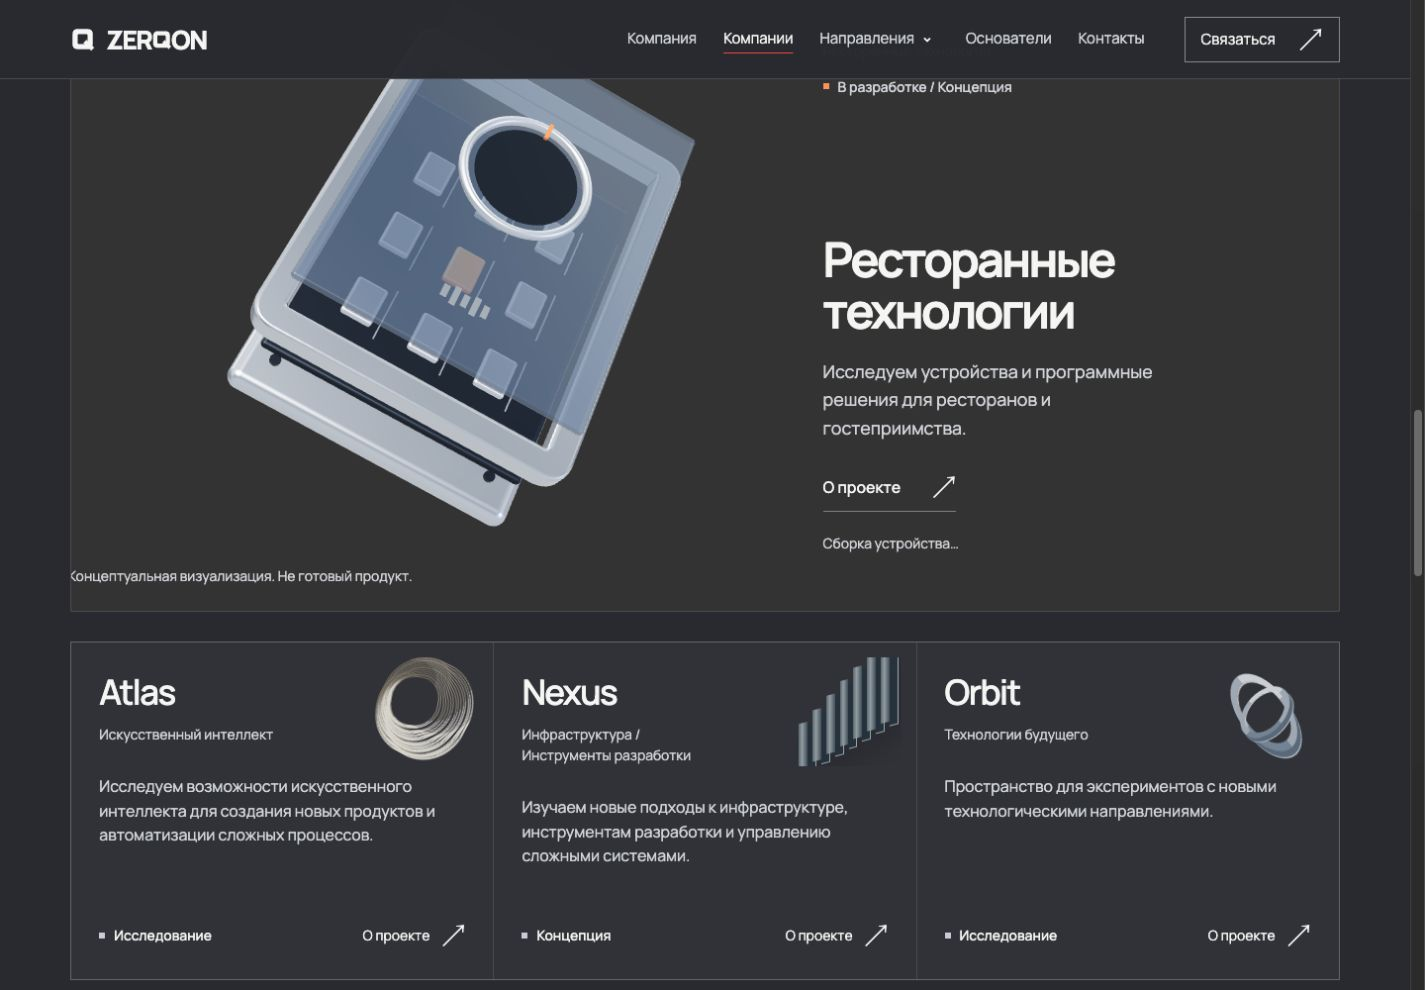
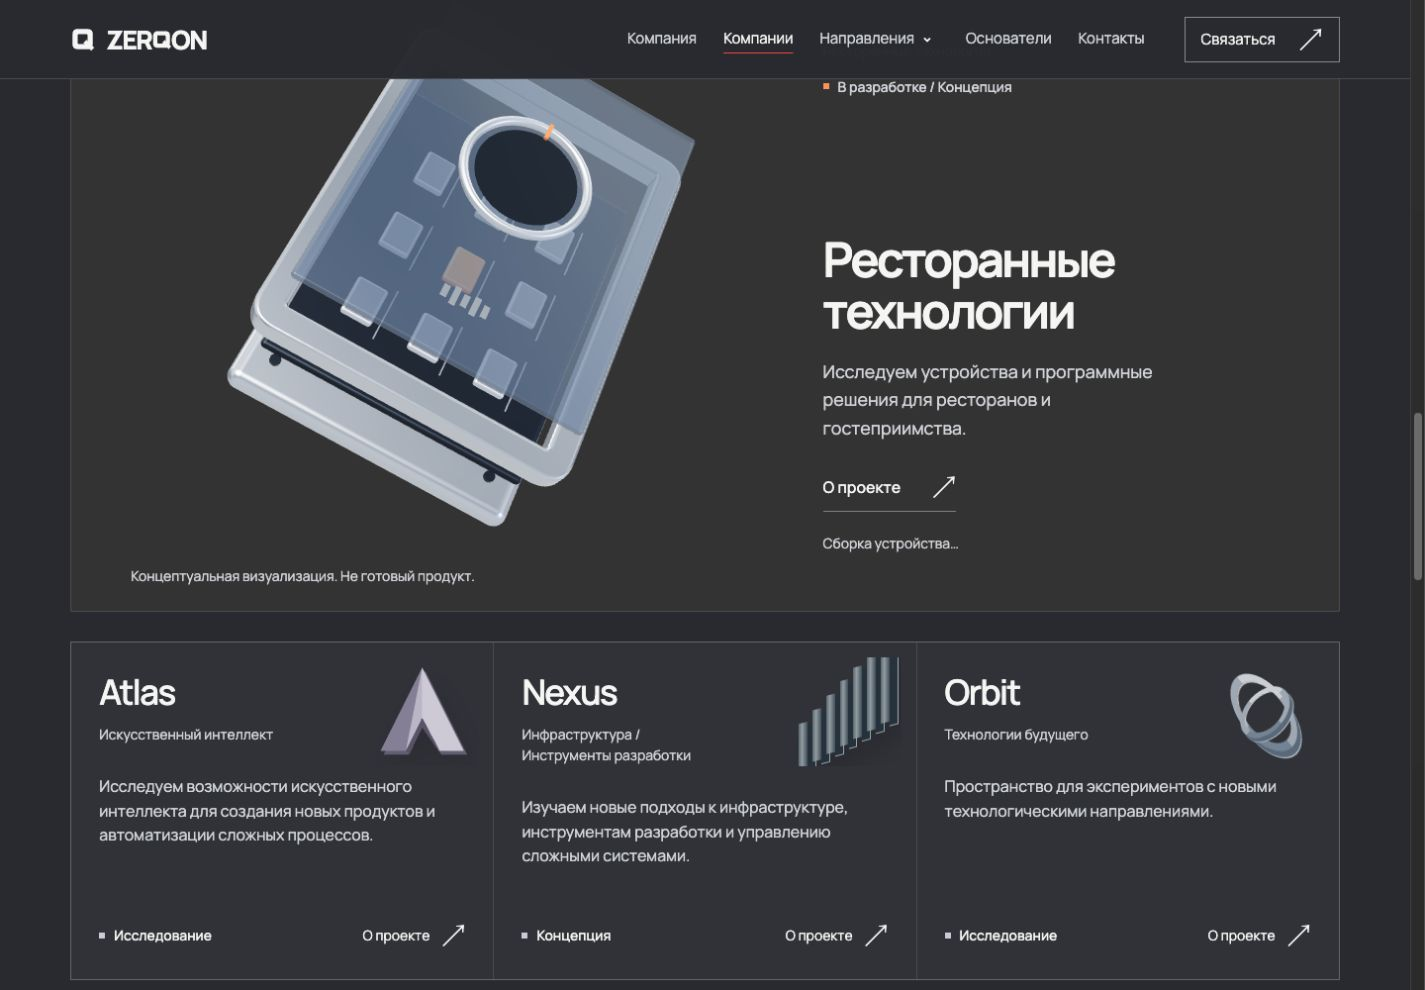
fsdfё

Changed region(s): [[0.247, 0.6667, 0.3396, 0.7879], [0.0618, 0.5758, 0.3396, 0.6061]]

diff --git a/src/product-scene.ts b/src/product-scene.ts
@@ -57,8 +57,8 @@ export function initProductScene(container:HTMLElement){
  const replay=()=>{if(!finished)return;elapsed=0;last=performance.now();replaying=true;finished=false;buttonState(true);request();};button?.addEventListener('click',replay);
  const observer=new IntersectionObserver(entries=>{visible=entries[0].isIntersecting;if(visible){last=performance.now();request();}else{cancelAnimationFrame(raf);raf=0;}},{rootMargin:'80px'});observer.observe(container);
  const resize=new ResizeObserver(()=>{const r=container.getBoundingClientRect();if(r.width&&r.height){renderer.setSize(r.width,r.height,false);camera.aspect=r.width/r.height;camera.updateProjectionMatrix();request();}});resize.observe(container);
- document.addEventListener('visibilitychange',request);viewport.addEventListener('change',request);
+ document.addEventListener('visibilitychange',request);viewport.addEventListener('change',request);addEventListener('pageshow',request);
  renderer.domElement.addEventListener('webglcontextlost',event=>{event.preventDefault();healthy=false;container.classList.remove('product-webgl-ready');cancelAnimationFrame(raf);});
  renderer.domElement.addEventListener('webglcontextrestored',()=>{healthy=true;request();});
- addEventListener('pagehide',e=>{if(e.persisted)return;disposed=true;cancelAnimationFrame(raf);observer.disconnect();resize.disconnect();button?.removeEventListener('click',replay);document.removeEventListener('visibilitychange',request);viewport.removeEventListener('change',request);scene.traverse(o=>{if(o instanceof T.Mesh){o.geometry.dispose();const materials=Array.isArray(o.material)?o.material:[o.material];materials.forEach(m=>m.dispose());}});environment.dispose();pmrem.dispose();renderer.dispose();renderer.domElement.remove();},{once:true});
+ addEventListener('pagehide',e=>{if(e.persisted)return;disposed=true;cancelAnimationFrame(raf);observer.disconnect();resize.disconnect();button?.removeEventListener('click',replay);document.removeEventListener('visibilitychange',request);viewport.removeEventListener('change',request);removeEventListener('pageshow',request);scene.traverse(o=>{if(o instanceof T.Mesh){o.geometry.dispose();const materials=Array.isArray(o.material)?o.material:[o.material];materials.forEach(m=>m.dispose());}});environment.dispose();pmrem.dispose();renderer.dispose();renderer.domElement.remove();},{once:true});
 }

diff --git a/src/design.css b/src/design.css
@@ -42,3 +42,5 @@ footer{padding:40px var(--gutter) 25px;background:#1d1f23}.footer-top{display:fl
 .atlas-mark{position:absolute;width:75%;height:85%;left:12%;top:5%;filter:drop-shadow(8px 14px 12px #16151e30)}.concept-motif .atlas-mark{width:100%;height:100%;inset:0}.feature-hospitality .assembly-visual .visual-caption{left:12%;bottom:25px;max-width:76%}
 @media(max-width:760px){.feature-hospitality .assembly-visual .visual-caption{left:24px;right:24px;bottom:15px;max-width:none}}
 .project{scroll-margin-top:16px}
+.layer-glass{background:linear-gradient(125deg,#667079,#202831 52%,#414a54);border-color:#c9cdd3}.dial i{background:#ff9155}.circuit{border-color:#a5a097}.circuit i{background:#34373d;border-color:#c0b7a7}
+.hero-bottom{background:#282a2f;padding-bottom:8px}
